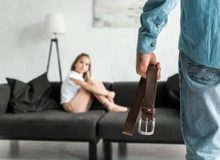
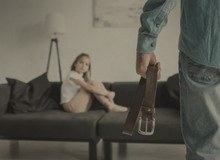
Kartenbilder auf einen gemeinsamen Ton gebracht
Vier der acht Kartenbilder hatten einen fast reinweissen Studiohintergrund
(Bier, Zirbn, Schem Schem, Haende), eines war ein dunkles, koerniges Filmstill.
In einer dunklen Hand leuchten die weissen wie Loecher, und nebeneinander liest
sich das als zusammengesucht - das faellt staerker auf als jedes Theme-Detail.

`tools/grade_art.py` legt eine gemeinsame Behandlung darueber: entsaettigen,
den Tonwertumfang auf 20..172 stauchen (danach ist kein Pixel mehr reines
Weiss - das ist der eigentliche Trick), warm toenen, Koernung, Vignette. Die
Portraets laufen mit, damit Spieler und Gegner zum selben Deck gehoeren; ihre
Groesse bleibt unangetastet, sonst wuerden 240x280 auf Kartenformat gequetscht.

Neuer Ordner `art_src/` mit den Originalen und einem `.gdignore`, damit Godot
ihn gar nicht erst anfasst und die Rohbilder nicht im Export landen. Damit ist
der Durchlauf wiederholbar - eine andere Stimmung ist eine Zahl im Skript und
kein Neu-Beschaffen.

**Neuer Ablauf fuer neue Kartenbilder:** nach `art_src/` legen, Skript laufen
lassen. Direkt nach `assets/art/` kopierte Bilder bleiben unbehandelt und
fallen dann aus der Reihe.

Anders als sonst ist das hier *nicht* ungetestet: Bilder kann ich ansehen, und
das habe ich - erst zu zaghaft, dann nachgeschaerft.

diff --git a/tools/grade_art.py b/tools/grade_art.py
@@ -1,0 +1,131 @@
+#!/usr/bin/env python3
+"""Bringt die Kartenbilder auf einen gemeinsamen Ton.
+
+Warum es das gibt: die Bilder kommen aus voellig verschiedenen Quellen - ein
+koerniges Filmstill neben einem freigestellten Produktfoto auf reinweissem
+Studiohintergrund. Nebeneinander in einer Hand liest sich das als
+zusammengesucht, und die weissen Flaechen leuchten in einer dunklen
+Oberflaeche wie Loecher.
+
+Der Ablauf ist bewusst eine Datei und kein Godot-Shader: die Bilder aendern
+sich nie zur Laufzeit, also kann die Arbeit einmal beim Einpflegen passieren
+statt sechzigmal pro Sekunde. Ausserdem sieht man das Ergebnis dann in der
+Datei und nicht erst im laufenden Spiel.
+
+Benutzung:
+
+    PYTHONPATH=/tmp/pilenv python3 tools/grade_art.py
+
+Liest `art_src/*.jpg` und schreibt nach `assets/art/`. Die Originale bleiben in
+`art_src/` liegen - dort steht ein `.gdignore`, damit Godot den Ordner gar
+nicht erst anfasst und die Rohbilder nicht im Export landen.
+
+WICHTIG: nie ueber ein bereits behandeltes Bild laufen lassen, sonst wird die
+Behandlung doppelt angewandt. Neue Kartenbilder gehoeren nach `art_src/`, nicht
+direkt nach `assets/art/`.
+"""
+
+import pathlib
+import sys
+
+from PIL import Image, ImageDraw, ImageEnhance, ImageFilter
+
+SRC = pathlib.Path("art_src")
+DST = pathlib.Path("assets/art")
+
+# Die Groesse bleibt, wie sie ist - hier wird nur getont, nicht zugeschnitten.
+# Das ist wichtig, weil in demselben Ordner zwei Formate liegen: Kartenbilder
+# sind 220x160 (doppelter Rahmen aus card.tscn), Portraets 240x280. Ein
+# gemeinsames Zielformat wuerde die Portraets platt druecken. Zuschneiden
+# gehoert ohnehin ins Bild selbst, nicht in diesen Durchlauf.
+
+# Wie stark die Farbe zurueckgenommen wird. Nicht auf 0: die Bilder sollen
+# zusammengehoeren, nicht farblos werden - ein blaues Sofa darf blau bleiben.
+SATURATION = 0.66
+
+# Der Tonwertumfang, auf den alles gestaucht wird. Das ist der eigentliche
+# Trick: kein Pixel ist danach mehr reines Weiss, also hoert der weisse
+# Studiohintergrund auf zu leuchten. Kein reines Schwarz, damit das dunkle
+# Filmstill nicht in der Karte absaeuft.
+BLACK, WHITE = 20, 172
+
+# Warme Toenung, pro Kanal. Blau wird am staerksten zurueckgenommen - das ist
+# die Richtung "Gluehbirne in einer Stube", also der Ort, an dem das Spiel
+# spielt.
+TINT = (1.04, 0.99, 0.88)
+
+# Koernung. Der zweite Grund, warum die Bilder zusammengehoeren: eine
+# gemeinsame Textur ueberdeckt, dass das eine Bild scharf und das andere weich
+# ist. 0.07 ist wenig - sichtbar erst, wenn man sucht.
+GRAIN = 0.07
+GRAIN_SIGMA = 10
+
+# Wie dunkel die Ecken werden. Zieht den Blick in die Bildmitte und laesst das
+# Bild in den Kartenrahmen auslaufen, statt hart daran zu enden.
+VIGNETTE = 0.42
+
+
+def build_lut() -> list[int]:
+    """Die Farbtabelle fuer Stauchung und Toenung in einem Schritt.
+
+    Zusammengelegt und nicht nacheinander, weil jeder eigene point()-Durchgang
+    auf 8 Bit rundet - zwei Durchgaenge sind zwei Rundungsfehler.
+    """
+    lut: list[int] = []
+    for channel in TINT:
+        for i in range(256):
+            value = BLACK + (WHITE - BLACK) * (i / 255.0)
+            lut.append(max(0, min(255, round(value * channel))))
+    return lut
+
+
+def vignette_mask(size: tuple[int, int]) -> Image.Image:
+    """Weiche runde Maske: innen weiss (Bild bleibt), aussen schwarz (dunkel).
+
+    Ueber ein kleines Bild gebaut und dann hochskaliert. Der Weichzeichner
+    arbeitet dadurch auf 64x64 statt auf voller Groesse, und die Kante wird
+    beim Skalieren ohnehin weich - zweimal weich ist genau richtig.
+    """
+    small = Image.new("L", (64, 64), 0)
+    # Groesser als das Bild gezeichnet: sonst liegt die dunkle Zone schon in
+    # der Bildmitte statt erst in den Ecken.
+    ImageDraw.Draw(small).ellipse((-4, -4, 68, 68), fill=255)
+    small = small.filter(ImageFilter.GaussianBlur(13))
+    return small.resize(size, Image.LANCZOS)
+
+
+def grade(image: Image.Image) -> Image.Image:
+    image = image.convert("RGB")
+    image = ImageEnhance.Color(image).enhance(SATURATION)
+    image = image.point(build_lut())
+
+    noise = Image.effect_noise(image.size, GRAIN_SIGMA).convert("L")
+    image = Image.blend(image, Image.merge("RGB", (noise, noise, noise)), GRAIN)
+
+    dark = ImageEnhance.Brightness(image).enhance(VIGNETTE)
+    image = Image.composite(image, dark, vignette_mask(image.size))
+
+    return image
+
+
+def main() -> int:
+    if not SRC.is_dir():
+        print(f"{SRC} fehlt - Rohbilder gehoeren dorthin.", file=sys.stderr)
+        return 1
+
+    DST.mkdir(parents=True, exist_ok=True)
+    count = 0
+    for path in sorted(SRC.glob("*.jpg")):
+        out = DST / path.name
+        grade(Image.open(path)).save(out, "JPEG", quality=88, optimize=True)
+        print(f"{path} -> {out}")
+        count += 1
+
+    if count == 0:
+        print(f"Keine .jpg in {SRC} gefunden.", file=sys.stderr)
+        return 1
+    return 0
+
+
+if __name__ == "__main__":
+    raise SystemExit(main())
